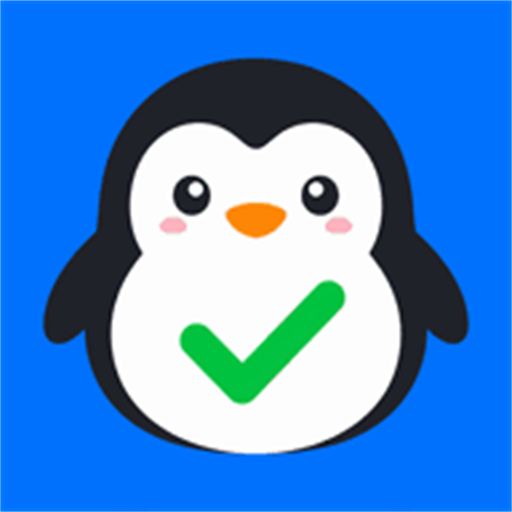
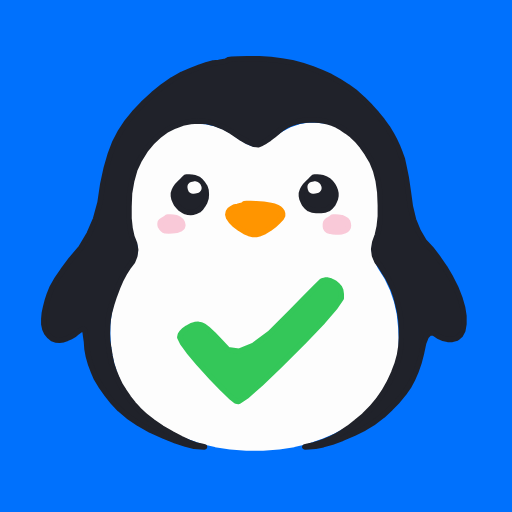
L'icona e' diventata vettoriale, e l'APK avra' la faccia giusta
store/icona.svg e' ricostruita dalla 192px con vettorizza.mjs: quantizza
i sei colori piatti, traccia i contorni di ogni regione, semplifica
(Ramer-Douglas-Peucker) e smussa (Chaikin). Un tratto dello stesso
colore su ogni regione copre l'alone dei pixel d'antialias, che
quantizzavano blu. Le 512 e 1024 ora sono rese da li' e restano nitide:
cade l'avvertenza 'ridisegnare prima dell'App Store'.

nativa/assets/: icona adattiva (foreground trasparente al 62%, fondo
blu) e splash 2732 per @capacitor/assets, che ha generato le 61 risorse
Android. CAPACITOR.md spiega il passo e la strada senza Android Studio:
JDK 21 + SDK a riga di comando in D:/Kimari/strumenti, e il trucco
delle barre dritte in local.properties.

diff --git a/store/lavorazione/anteprima-1024.html b/store/lavorazione/anteprima-1024.html
@@ -1,0 +1,1 @@
+<!doctype html><meta charset='utf-8'><style>*{margin:0}body{width:1024px;height:1024px}img{width:1024px;height:1024px;display:block}</style><img src='../icona.svg'>

diff --git a/store/lavorazione/anteprima-svg.html b/store/lavorazione/anteprima-svg.html
@@ -1,0 +1,1 @@
+<!doctype html><meta charset='utf-8'><style>*{margin:0}body{width:1024px;height:1024px}img{width:1024px;height:1024px;display:block}</style><img src='../icona.svg'>

diff --git a/store/lavorazione/anteprima-512.html b/store/lavorazione/anteprima-512.html
@@ -1,0 +1,1 @@
+<!doctype html><meta charset='utf-8'><style>*{margin:0}body{width:512px;height:512px}img{width:512px;height:512px;display:block}</style><img src='../icona.svg'>

diff --git a/CAPACITOR.md b/CAPACITOR.md
@@ -39,6 +39,38 @@ npx cap add android
 mai `nativa/www/` a mano**: viene rigenerata ogni volta, e le modifiche
 andrebbero perse senza dire niente.
 
+### 2 bis. L'icona e lo splash
+
+Senza questo passo l'APK esce con l'icona di default di Capacitor:
+
+```bash
+npx @capacitor/assets generate --android
+```
+
+Legge `nativa/assets/` (icon-only, icon-foreground, icon-background, splash —
+PNG resi da `store/icona.svg`, il vettoriale dell'icona) e scrive le 61
+risorse nelle densità giuste. Da rilanciare se l'icona cambia.
+
+### 2 ter. Compilare senza Android Studio (fatto il 27/8/2026)
+
+Android Studio serve per l'emulatore e il debug visuale, non per compilare.
+In `D:\Kimari\strumenti\` ci sono già JDK 21 e l'SDK a riga di comando
+(platform-tools, android-35, build-tools 35): sono ~2 GB invece di 8.
+`nativa/android/local.properties` punta all'SDK — **con le barre dritte**:
+`sdk.dir=D:/Kimari/strumenti/android-sdk`. Con i backslash il formato Java
+Properties li mangia (`\K` → `K`) e Gradle muore con un criptico "The
+filename, directory name, or volume label syntax is incorrect".
+
+```bash
+cd nativa/android
+JAVA_HOME=/d/Kimari/strumenti/jdk-21.0.12.1+1 ./gradlew assembleDebug
+```
+
+L'APK esce in `app/build/outputs/apk/debug/app-debug.apk`: si installa sul
+telefono con `adb install` o copiandolo e aprendolo. Per l'App Bundle firmato
+da caricare sul Play Store (`bundleRelease` + chiave di firma) Android Studio
+resta la strada più comoda, ma anche quello si può fare da qui.
+
 ### 3. Provarla sul telefono
 
 Attiva le **Opzioni sviluppatore** sul telefono (Impostazioni → Info →

diff --git a/store/LISTING.md b/store/LISTING.md
@@ -16,10 +16,11 @@ per restare coerenti con quello che l'app dice davvero.
 | `screenshot/03-sito-it.png` | pagina pubblica | 1374×2919 |
 | `lavorazione/` | sorgenti e passaggi intermedi | non si carica |
 
-**Avvertenza sull'icona:** le versioni 512 e 1024 sono ingrandimenti bicubici
-della 192px (l'unica sorgente esistente). A 512 regge; a 1024 i bordi sono
-morbidi. Prima della sottomissione vera all'App Store conviene ridisegnarla
-vettoriale — è geometria piatta, un'ora di lavoro per chi ha lo strumento.
+**L'icona è vettoriale.** `icona.svg` è ricostruita dalla 192px con
+`lavorazione/vettorizza.mjs` (quantizza i sei colori piatti, traccia i
+contorni, semplifica, smussa): le 512 e 1024 sono rese da lì e restano
+nitide a qualunque dimensione. Se l'icona dell'app cambia, si rilancia
+lo script e si riesportano.
 
 **Screenshot:** presi dalla produzione con il piano di prova PROVA-CLAUDE.
 Prima di caricarli negli store andranno rifatti con un piano dal nome
@@ -107,5 +108,5 @@ nativo), altrimenti il rischio di rifiuto come "sito impacchettato" è concreto.
 2. Questionari di Play: privacy (già scritta: kimariapp.com/privacy), data
    safety, contenuti
 3. Rifare gli screenshot con un piano dal titolo presentabile
-4. (App Store) ridisegnare l'icona vettoriale e preparare gli screenshot
-   6.7" e 5.5" — si fanno con lo stesso comando cambiando window-size
+4. (App Store) preparare gli screenshot 6.7" e 5.5" — si fanno con lo
+   stesso comando cambiando window-size
